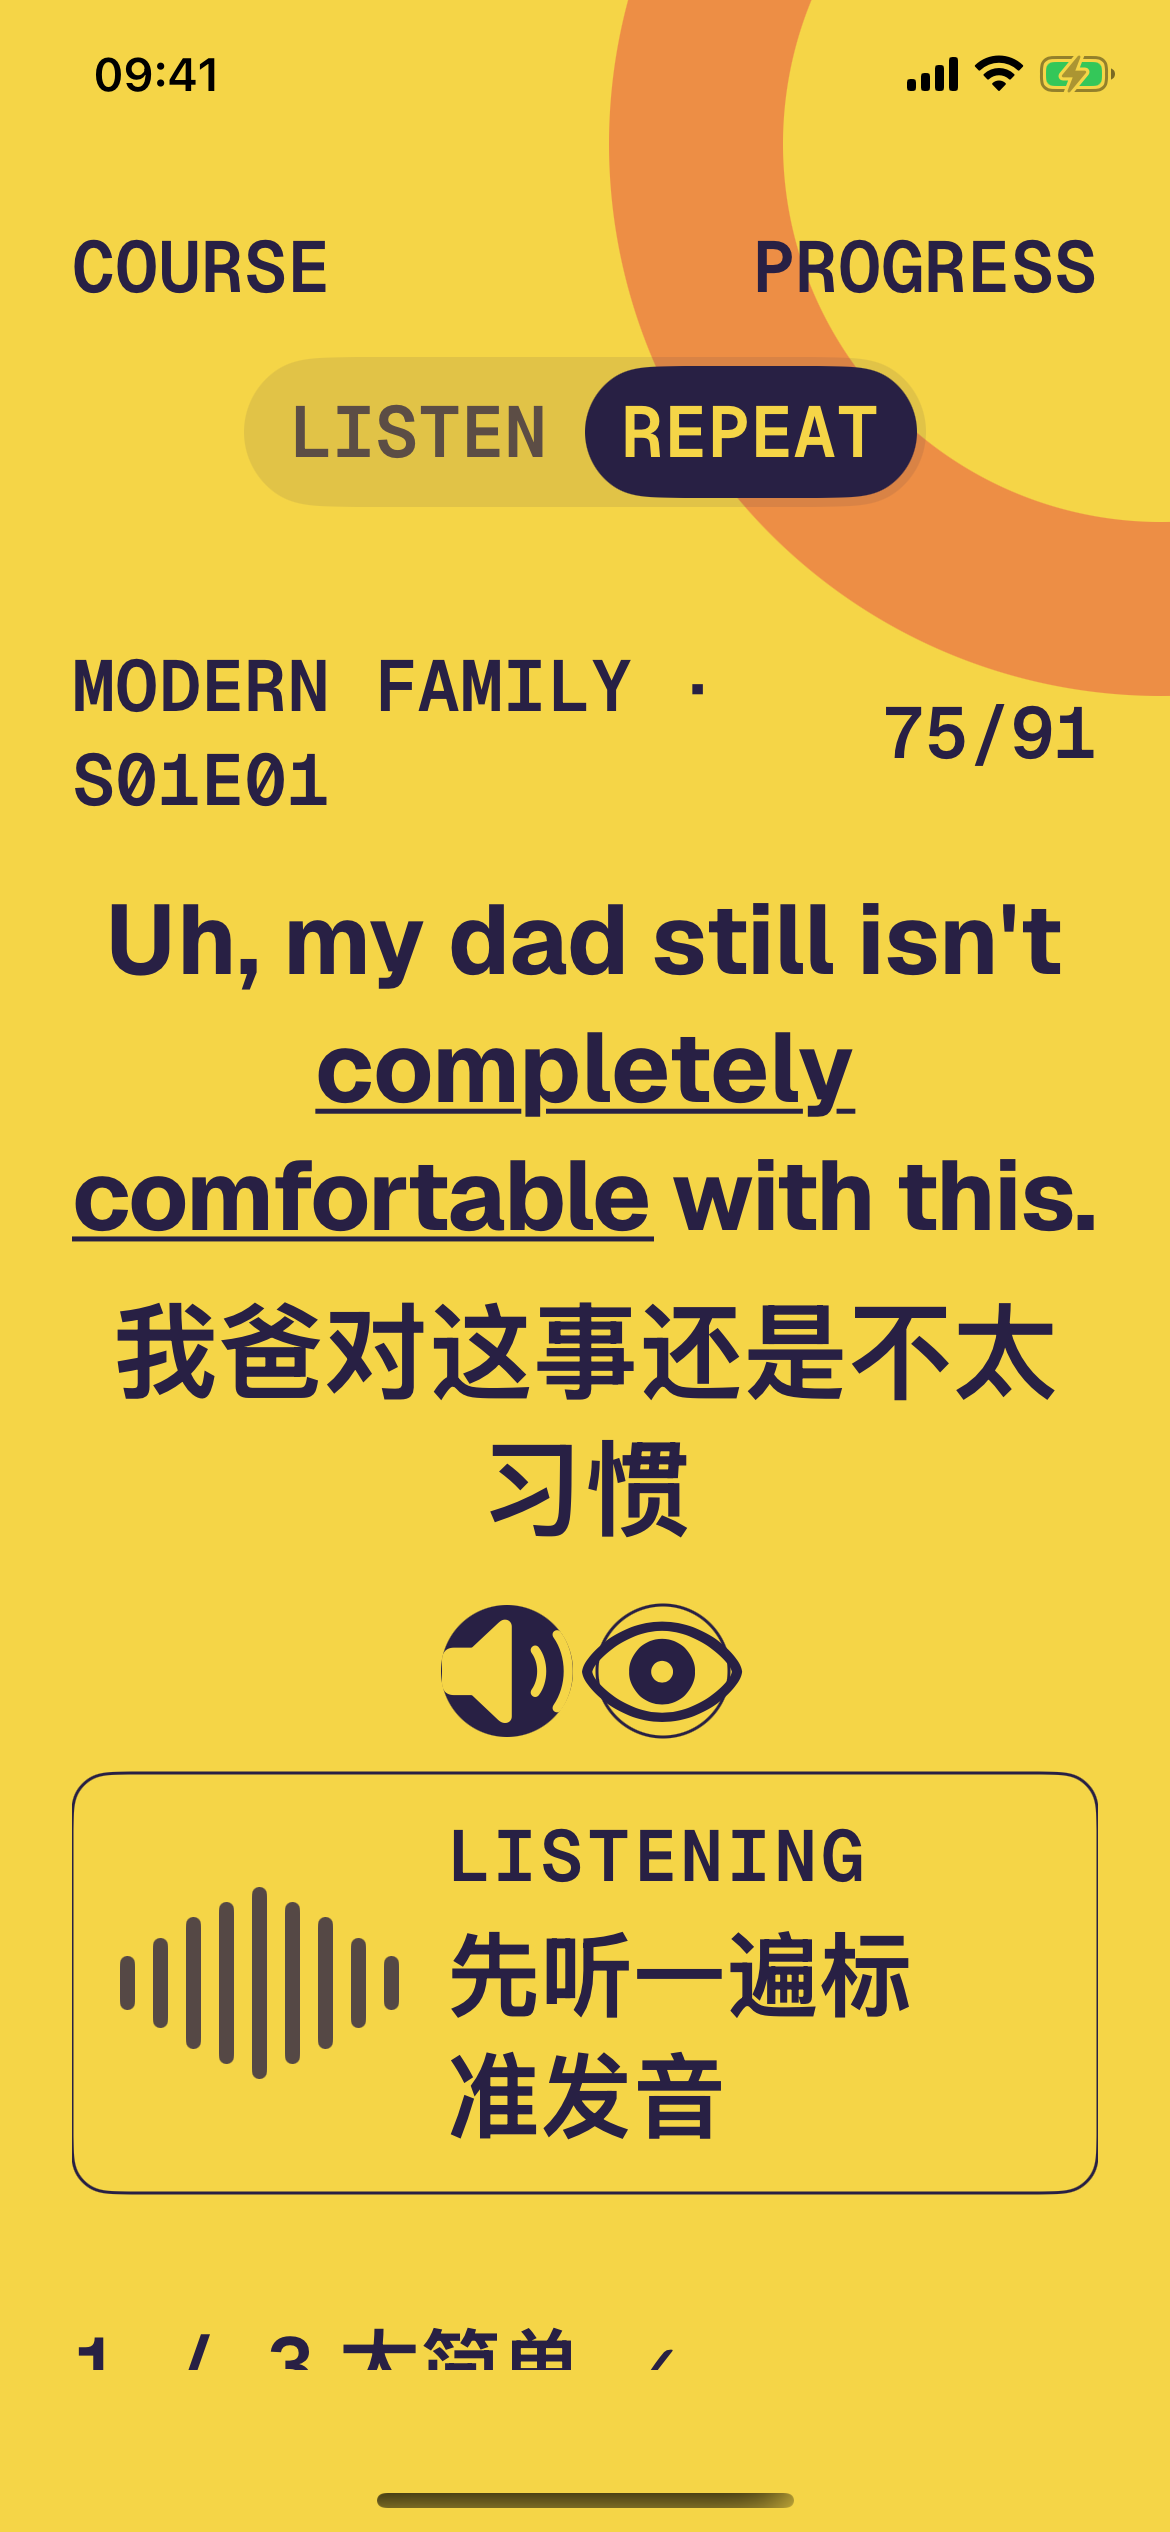
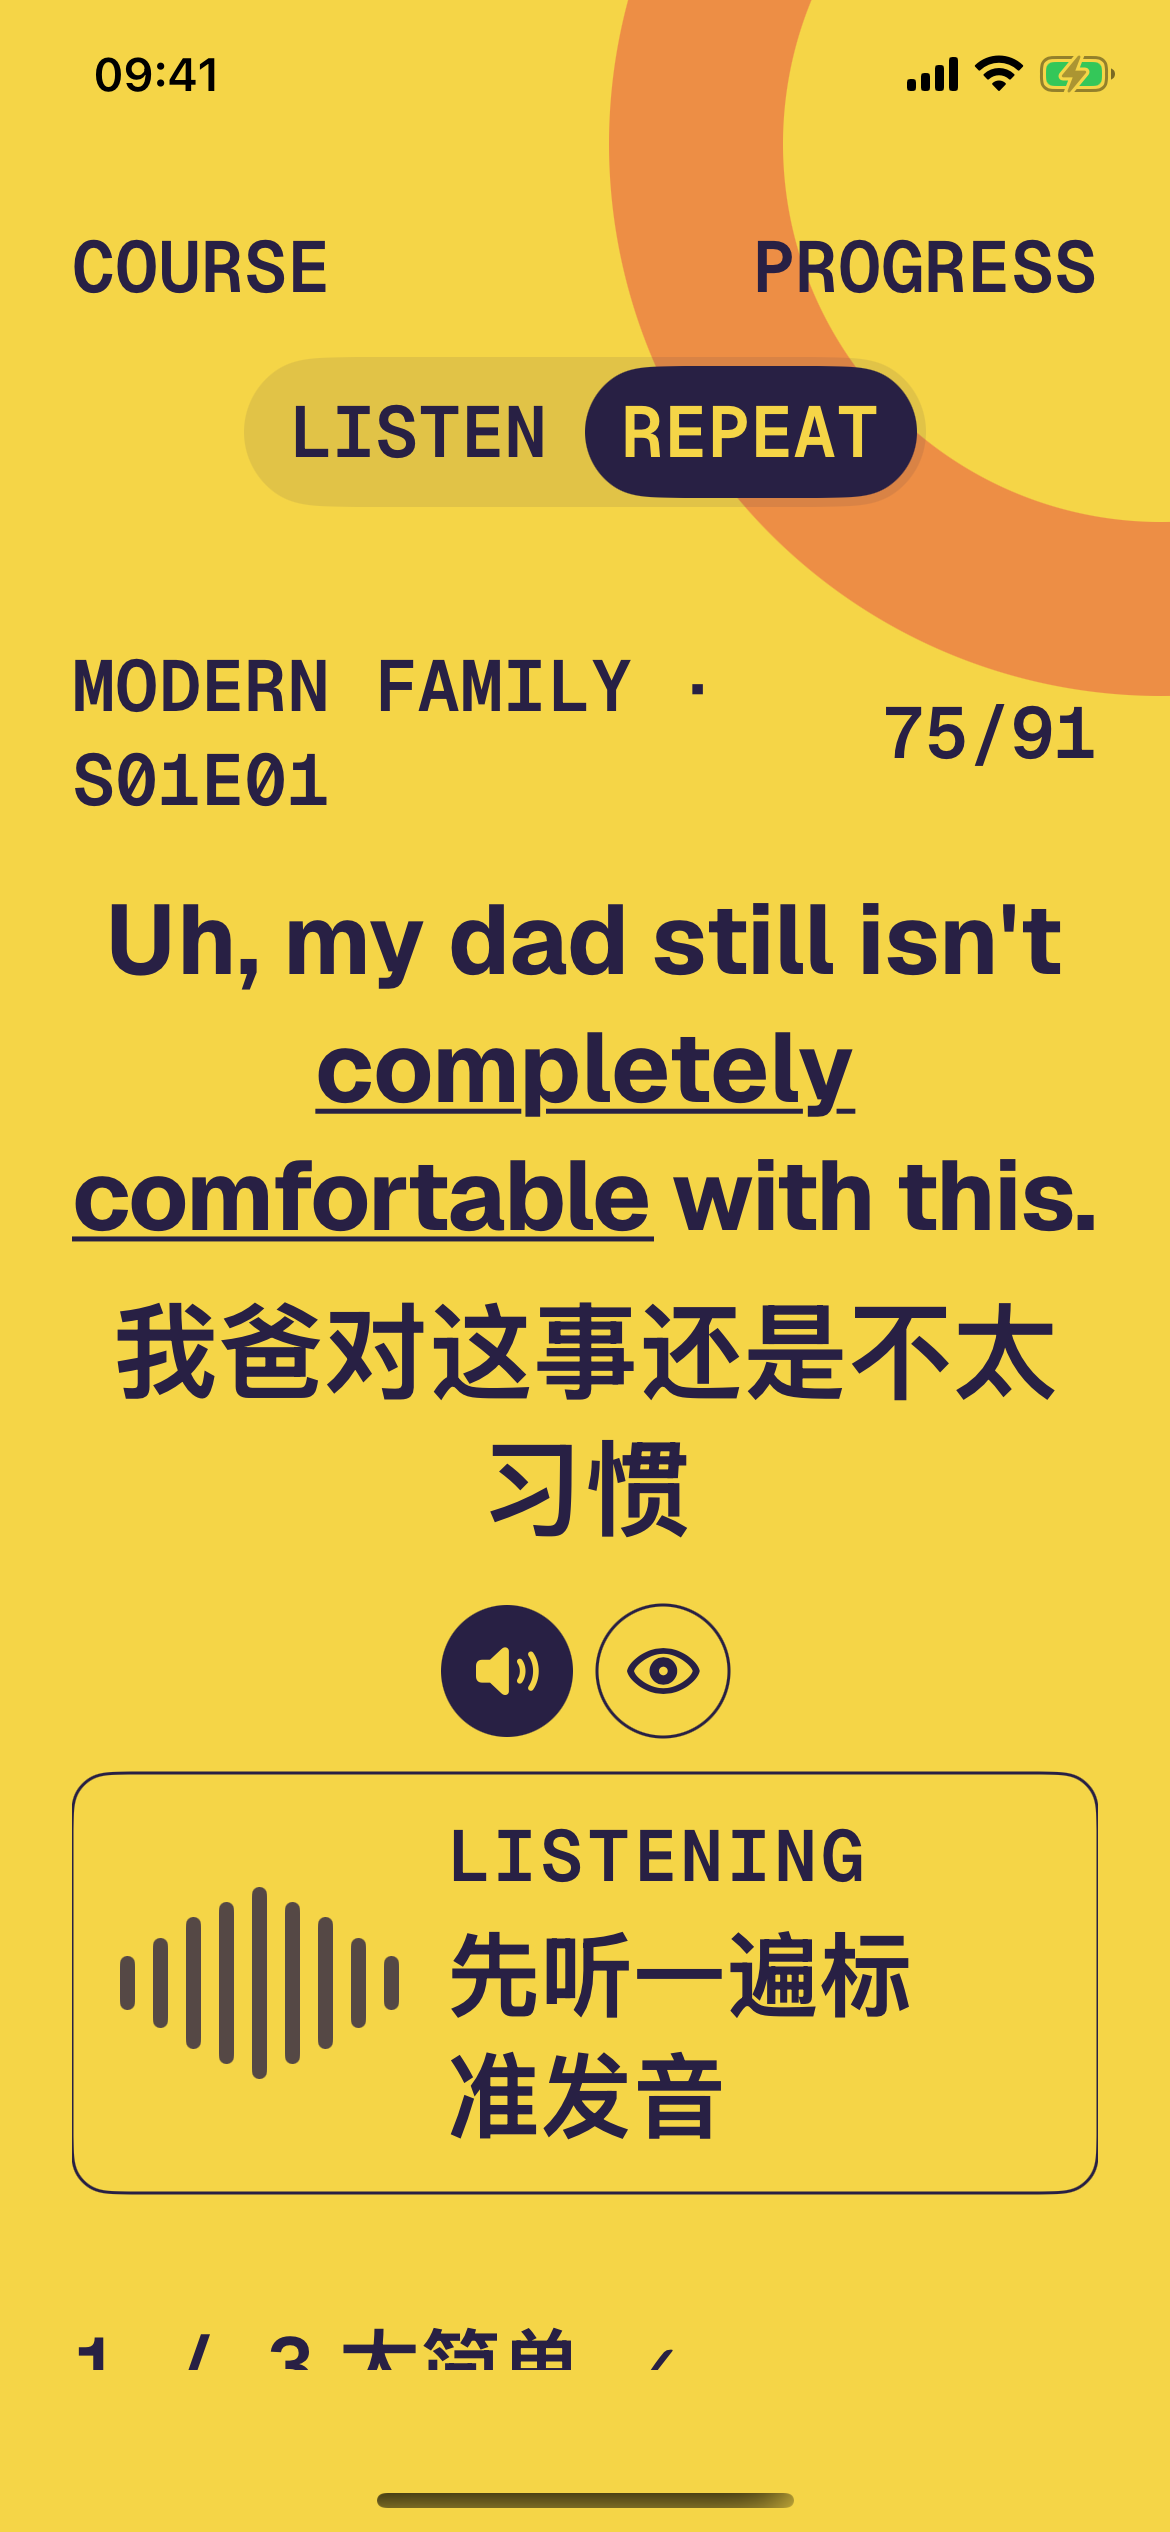
fix: enforce accessible study shell controls

Changed region(s): [[0.3692, 0.624, 0.6462, 0.6864], [0.2462, 0.156, 0.4615, 0.1872]]

diff --git a/ios/Packages/WordLoopDesignSystem/Sources/WordLoopDesignSystem/Components.swift b/ios/Packages/WordLoopDesignSystem/Sources/WordLoopDesignSystem/Components.swift
@@ -25,7 +25,7 @@ public struct PosterBackground<Content: View>: View {
         ZStack(alignment: .topTrailing) {
             palette.background.color.ignoresSafeArea()
             Circle()
-                .stroke(palette.accent.color.opacity(0.58), lineWidth: 58)
+                .stroke(palette.accent.color.opacity(WordLoopLayerOpacity.posterAccent), lineWidth: 58)
                 .frame(width: 310, height: 310)
                 .offset(x: 152, y: -154)
                 .accessibilityHidden(true)
@@ -85,7 +85,11 @@ public struct ModeSwitch: View {
                         .font(WordLoopTypography.label())
                         .padding(.horizontal, WordLoopSpacing.sm)
                         .frame(minHeight: WordLoopSpacing.minimumHit)
-                        .foregroundStyle(selection == option ? palette.background.color : palette.ink.color.opacity(0.72))
+                        .foregroundStyle(
+                            selection == option
+                                ? palette.background.color
+                                : palette.ink.color.opacity(WordLoopLayerOpacity.modeUnselectedText)
+                        )
                         .background(selection == option ? palette.ink.color : Color.clear, in: Capsule())
                 }
                 .buttonStyle(.plain)
@@ -96,7 +100,7 @@ public struct ModeSwitch: View {
             }
         }
         .padding(3)
-        .background(palette.ink.color.opacity(0.1), in: Capsule())
+        .background(palette.ink.color.opacity(WordLoopLayerOpacity.modeTrack), in: Capsule())
         .accessibilityElement(children: .contain)
         .accessibilityLabel(accessibilityLabel)
     }

diff --git a/ios/Packages/WordLoopDesignSystem/Tests/WordLoopDesignSystemTests/WordLoopDesignSystemTests.swift b/ios/Packages/WordLoopDesignSystem/Tests/WordLoopDesignSystemTests/WordLoopDesignSystemTests.swift
@@ -39,6 +39,20 @@ final class WordLoopDesignSystemTests: XCTestCase {
         XCTAssertEqual(PosterPalette.all[5].accessibleAccentText, PosterPalette.all[5].accent)
     }
 
+    func testModeSwitchUnselectedTextMeetsContrastAcrossRealPosterLayers() throws {
+        let sun = try XCTUnwrap(PosterPalette.all.first(where: { $0.id == "sun" }))
+        let underlays = [
+            sun.background,
+            sun.accent.composited(over: sun.background, opacity: WordLoopLayerOpacity.posterAccent),
+        ]
+
+        for underlay in underlays {
+            let track = sun.ink.composited(over: underlay, opacity: WordLoopLayerOpacity.modeTrack)
+            let text = sun.ink.composited(over: track, opacity: WordLoopLayerOpacity.modeUnselectedText)
+            XCTAssertGreaterThanOrEqual(text.contrastRatio(with: track), 4.5)
+        }
+    }
+
     func testSpacingRadiusBorderAndShadowConstants() {
         XCTAssertEqual(
             [WordLoopSpacing.xxs, WordLoopSpacing.xs, WordLoopSpacing.sm, WordLoopSpacing.md, WordLoopSpacing.safe, WordLoopSpacing.safeWide, WordLoopSpacing.lg, WordLoopSpacing.minimumHit],

diff --git a/ios/Packages/WordLoopDesignSystem/Sources/WordLoopDesignSystem/Tokens.swift b/ios/Packages/WordLoopDesignSystem/Sources/WordLoopDesignSystem/Tokens.swift
@@ -33,6 +33,24 @@ public struct WordLoopSRGB: Equatable, Hashable, Sendable {
         let darker = min(relativeLuminance, other.relativeLuminance)
         return (lighter + 0.05) / (darker + 0.05)
     }
+
+    /// Returns the final sRGB value produced by drawing this color over an
+    /// opaque background. Tests use the same layer order as SwiftUI views so
+    /// translucent roles cannot be checked against the wrong underlay.
+    public func composited(over background: WordLoopSRGB, opacity: Double) -> WordLoopSRGB {
+        let alpha = min(max(opacity, 0), 1)
+        return .init(
+            red: red * alpha + background.red * (1 - alpha),
+            green: green * alpha + background.green * (1 - alpha),
+            blue: blue * alpha + background.blue * (1 - alpha)
+        )
+    }
+}
+
+public enum WordLoopLayerOpacity {
+    public static let posterAccent = 0.58
+    public static let modeTrack = 0.10
+    public static let modeUnselectedText = 1.0
 }
 
 public struct PosterPalette: Identifiable, Equatable, Hashable, Sendable {

diff --git a/ios/Packages/WordLoopFeatures/Sources/WordLoopFeatures/StudyShell/MainStudyView.swift b/ios/Packages/WordLoopFeatures/Sources/WordLoopFeatures/StudyShell/MainStudyView.swift
@@ -130,6 +130,7 @@ public struct MainStudyView: View {
             HStack(spacing: WordLoopSpacing.xs) {
                 Button {} label: {
                     Image(systemName: "speaker.wave.2.fill")
+                        .font(.system(size: 18, weight: .semibold))
                         .frame(width: WordLoopSpacing.minimumHit, height: WordLoopSpacing.minimumHit)
                         .background(store.state.palette.ink.color, in: Circle())
                         .foregroundStyle(store.state.palette.background.color)
@@ -140,6 +141,7 @@ public struct MainStudyView: View {
 
                 Button(action: store.cycleVisibility) {
                     Image(systemName: visibilityIcon)
+                        .font(.system(size: 18, weight: .semibold))
                         .frame(width: WordLoopSpacing.minimumHit, height: WordLoopSpacing.minimumHit)
                         .overlay(Circle().stroke(store.state.palette.ink.color, lineWidth: WordLoopBorder.hairline))
                 }

diff --git a/ios/Tests/AppUITests/AppUITests.swift b/ios/Tests/AppUITests/AppUITests.swift
@@ -190,6 +190,13 @@ final class AppUITests: XCTestCase {
 
         XCTAssertTrue(app.descendants(matching: .any)["study.page"].waitForExistence(timeout: 5))
         XCTAssertTrue(app.staticTexts["study.english"].exists)
+        let playButton = app.buttons["study.play"]
+        let visibilityButton = app.buttons["study.visibility"]
+        XCTAssertTrue(playButton.isHittable)
+        XCTAssertTrue(visibilityButton.isHittable)
+        XCTAssertGreaterThanOrEqual(playButton.frame.width, 44)
+        XCTAssertGreaterThanOrEqual(playButton.frame.height, 44)
+        XCTAssertLessThanOrEqual(playButton.frame.maxX, visibilityButton.frame.minX)
         let nextButton = app.buttons["study.next"]
         XCTAssertTrue(nextButton.exists)
         if !nextButton.isHittable { app.swipeUp() }

diff --git a/docs/ios-migration/p3/study-shell/visual-verification.md b/docs/ios-migration/p3/study-shell/visual-verification.md
@@ -14,10 +14,10 @@
 
 | 文件 | 状态与 fixture | SHA-256 |
 | --- | --- | --- |
[8 lines of base64/hex data omitted]
 
 ## 与 Web 基线核对
 
@@ -36,5 +36,6 @@
 - accessibility 3 将顶栏重排为两行、底部控制重排为两组，并只在辅助字号启用纵向 ScrollView。截图显示初始阅读区，UI test 继续向上滚动并确认 `NEXT` 可点击，证明底部控制可达而非被裁掉。
 - 所有命中控件至少使用 `WordLoopSpacing.minimumHit = 44`；UI automation 实际点击 mode、visibility、AUTOPLAY/PAUSE，并检查边缘按钮仍在设备水平边界内。
 - Reduce Motion fixture 清零内容进入位移与 palette 动画，并让 waveform 停止循环；页面颜色、选中态和文案不依赖动画表达。
+- 首次复核指出 ModeSwitch 未选中文字在 accent 圆环上的实际层叠只有 3.390:1。修复后 track 与 poster accent 的 opacity 成为共享 token，未选中文字使用不透明 ink；同一 sRGB 合成测试覆盖纯背景 8.746:1 和圆环区域 5.301:1。accessibility 3 的 speaker/eye symbol 固定为不随 Dynamic Type 放大的 18 pt，并由 UI test 锁定两个 44 pt 命中框不重叠；刷新截图可见图形完整留在各自圆形内。
 
 P3.3 只验收主学习页静态 Shell。课程/进度抽屉、完成弹窗和完整 REPEAT 卡片状态分别留给 P3.4–P3.6；课程解析、真实播放、持久进度、网络同步、麦克风与 Realtime 均未实现。

diff --git a/docs/tasks/2026-07-15-p3-3-main-study-page.md b/docs/tasks/2026-07-15-p3-3-main-study-page.md
@@ -1,6 +1,6 @@
 # P3.3 iPhone 主学习页静态 Shell
 
-状态：首次独立复核 FAIL
+状态：首次复核问题已修复，待重新独立复核
 
 上游 Plan：[`../plans/2026-07-15-wordloop-ios-migration-implementation-plan.md`](../plans/2026-07-15-wordloop-ios-migration-implementation-plan.md)
 
@@ -143,3 +143,10 @@ git status --short --ignored
 - accessibility 3 截图中，播放与 visibility 按钮的 SF Symbols 随 Dynamic Type 放大，但 `MainStudyView` 只给 `Image` 固定 44 × 44 pt frame，没有固定 symbol 字号或让图形在控件内缩放。结果 speaker 与 eye 图标越出各自圆形边界并明显互相重叠，不满足“accessibility 3 无文本/控件裁切”和控件视觉边界要求。现有 UI test 只验证页面可滚到 `NEXT`，没有检查这两个学习动作的几何关系。
 
 最小修复：让 mode switch 在圆环覆盖与纯背景两种真实底层上都使用至少 4.5:1 的最终文字/背景角色，并新增按 UI 实际 alpha 层叠计算的回归；为两个学习动作固定 Dynamic Type 安全的 symbol 尺寸/缩放与间距，确保图形留在各自至少 44 pt 的命中区域内。修复后刷新受影响的 listen 与 accessibility 3 截图，并从冷缓存重跑全部验收。P3.3 PASS 前不得生成或实施 P3.4。
+
+## 首次复核问题修复（2026-07-15）
+
+- `posterAccent / modeTrack / modeUnselectedText` opacity 已提升为 Design System 共享 token；`WordLoopSRGB.composited` 用与 SwiftUI 相同的 sRGB 层叠顺序计算最终颜色。未选中文字改为不透明 ink，纯背景区域实算约 8.746:1，accent 圆环区域约 5.301:1；单元测试直接引用页面相同 token 并断言两种真实底层均至少 4.5:1。
+- speaker 与 visibility SF Symbols 固定为 18 pt semibold，不再随 accessibility Dynamic Type 膨胀；各自继续使用 44 × 44 pt frame。UI test 在 accessibility 3 下断言两个按钮可点击、命中框至少 44 pt 且不相交。
+- 四张视觉证据均已用刷新 App 重拍；accessibility 3 中两个图形完整留在各自圆形内且有明确间隔，Listen/Repeat 未选中文字对比可辨。hash 和差异记录已更新。
+- 从删除课程生成物、统一/Package SwiftPM cache 与 DerivedData 的状态完成修复后验收：八个 Package tests、iPhone build、DesignSystem 12/12、Features 26/26、App integration 1/1、UI 12/12、Web 41/41 全部通过；lint 精确保持既有 4 errors、0 warnings。仍需未参与修复的 reviewer 重新结论；P3.3 PASS 前不得进入 P3.4。

diff --git a/docs/handoff/CHANGELOG.md b/docs/handoff/CHANGELOG.md
@@ -2,6 +2,13 @@
 
 此文件只追加影响后续接手的耐久事实。最新记录放在最上方，不改写旧记录。
 
+## 2026-07-15 · P3.3 visual blockers fixed, re-review pending
+
+- Design System 新增实际 sRGB layer compositing 和共享 `posterAccent / modeTrack / modeUnselectedText` opacity token；ModeSwitch 未选中文字改用不透明 ink，纯背景和 accent 圆环下实算约 8.746:1/5.301:1，同一 UI token 的单元测试锁定两种底层至少 4.5:1。
+- 主学习页 speaker/visibility SF Symbols 固定为 18 pt semibold，不再被 accessibility Dynamic Type 放大出 44 pt 圆形；UI test 验证两个按钮可点击、各至少 44 pt 且 frame 不相交。
+- 四张 study shell 截图全部从刷新 App 重拍并更新 hash；辅助字号图标边界与模式文字对比均已人工核对。
+- 修复后从删除课程生成物、统一/Package SwiftPM cache 与 DerivedData 的状态重跑：八个 Package tests、iPhone build、DesignSystem 12/12、Features 26/26、App integration 1/1、UI 12/12、Web 41/41 全部通过；lint 精确保持既有 4 errors、0 warnings。仍需重新独立复核；P3.3 PASS 前不得生成或实施 P3.4。
+
 ## 2026-07-15 · P3.3 review failed on actual contrast and accessibility controls
 
 - 独立 reviewer 从删除课程生成物、统一/Package SwiftPM cache 与 DerivedData 的状态重跑：八个 Package tests、iPhone build、Features 26/26、App integration 1/1、UI 12/12、Web 41/41 全部通过；lint 精确保持既有 4 errors、0 warnings。
